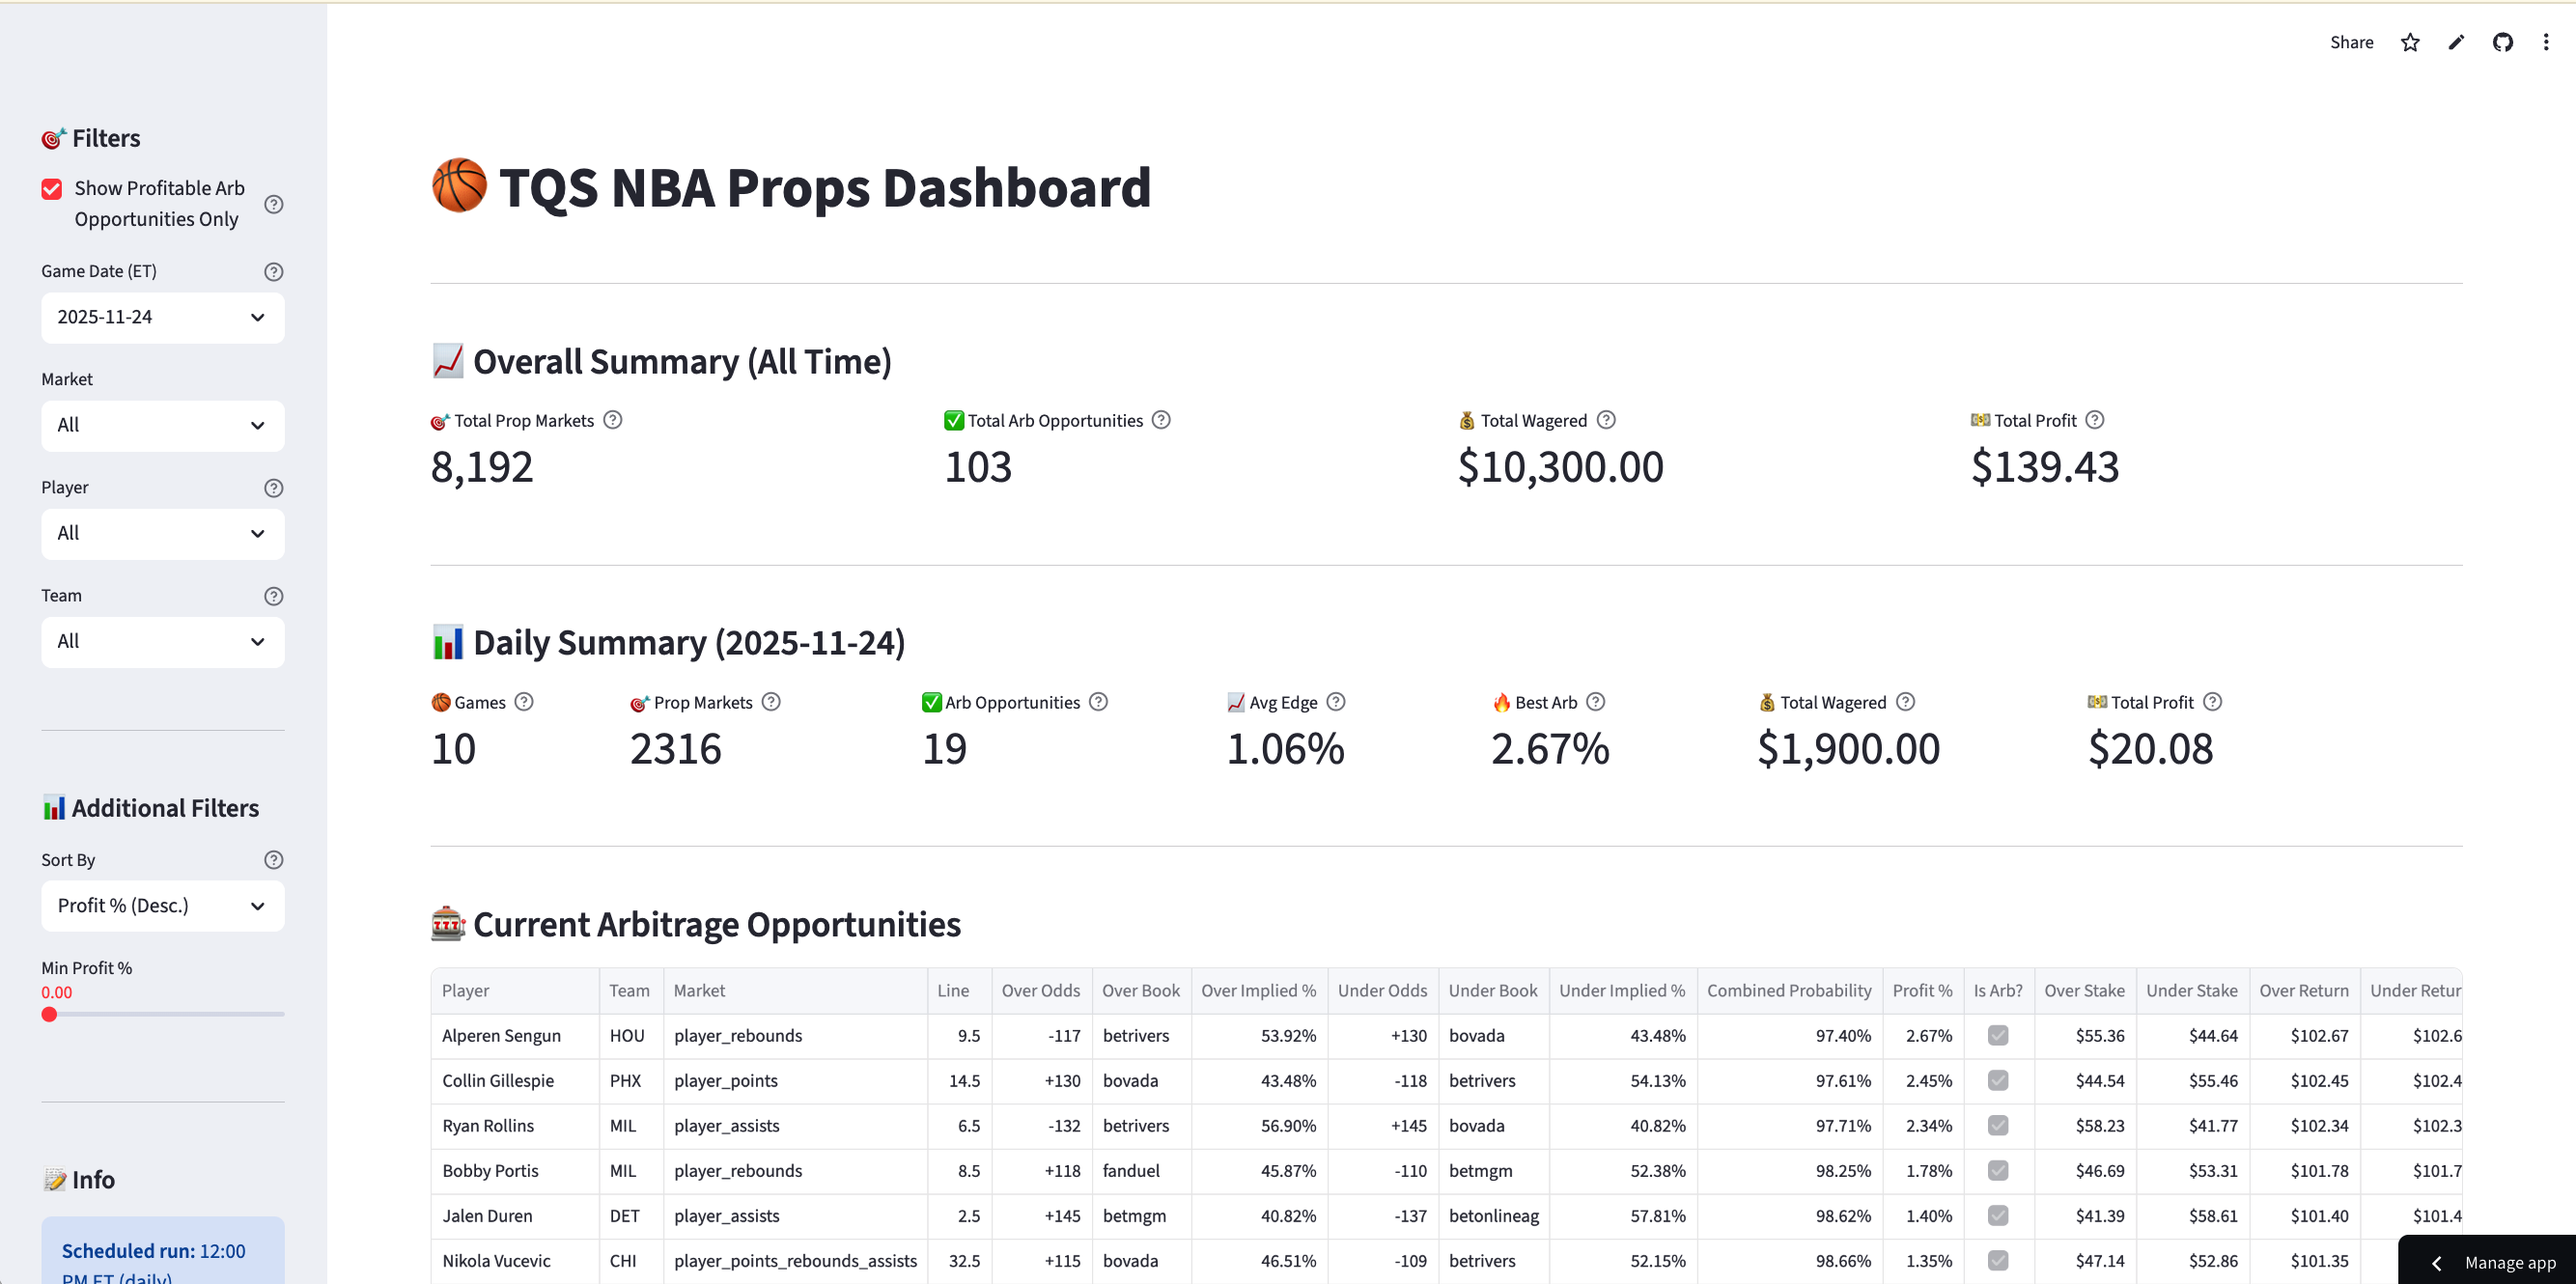
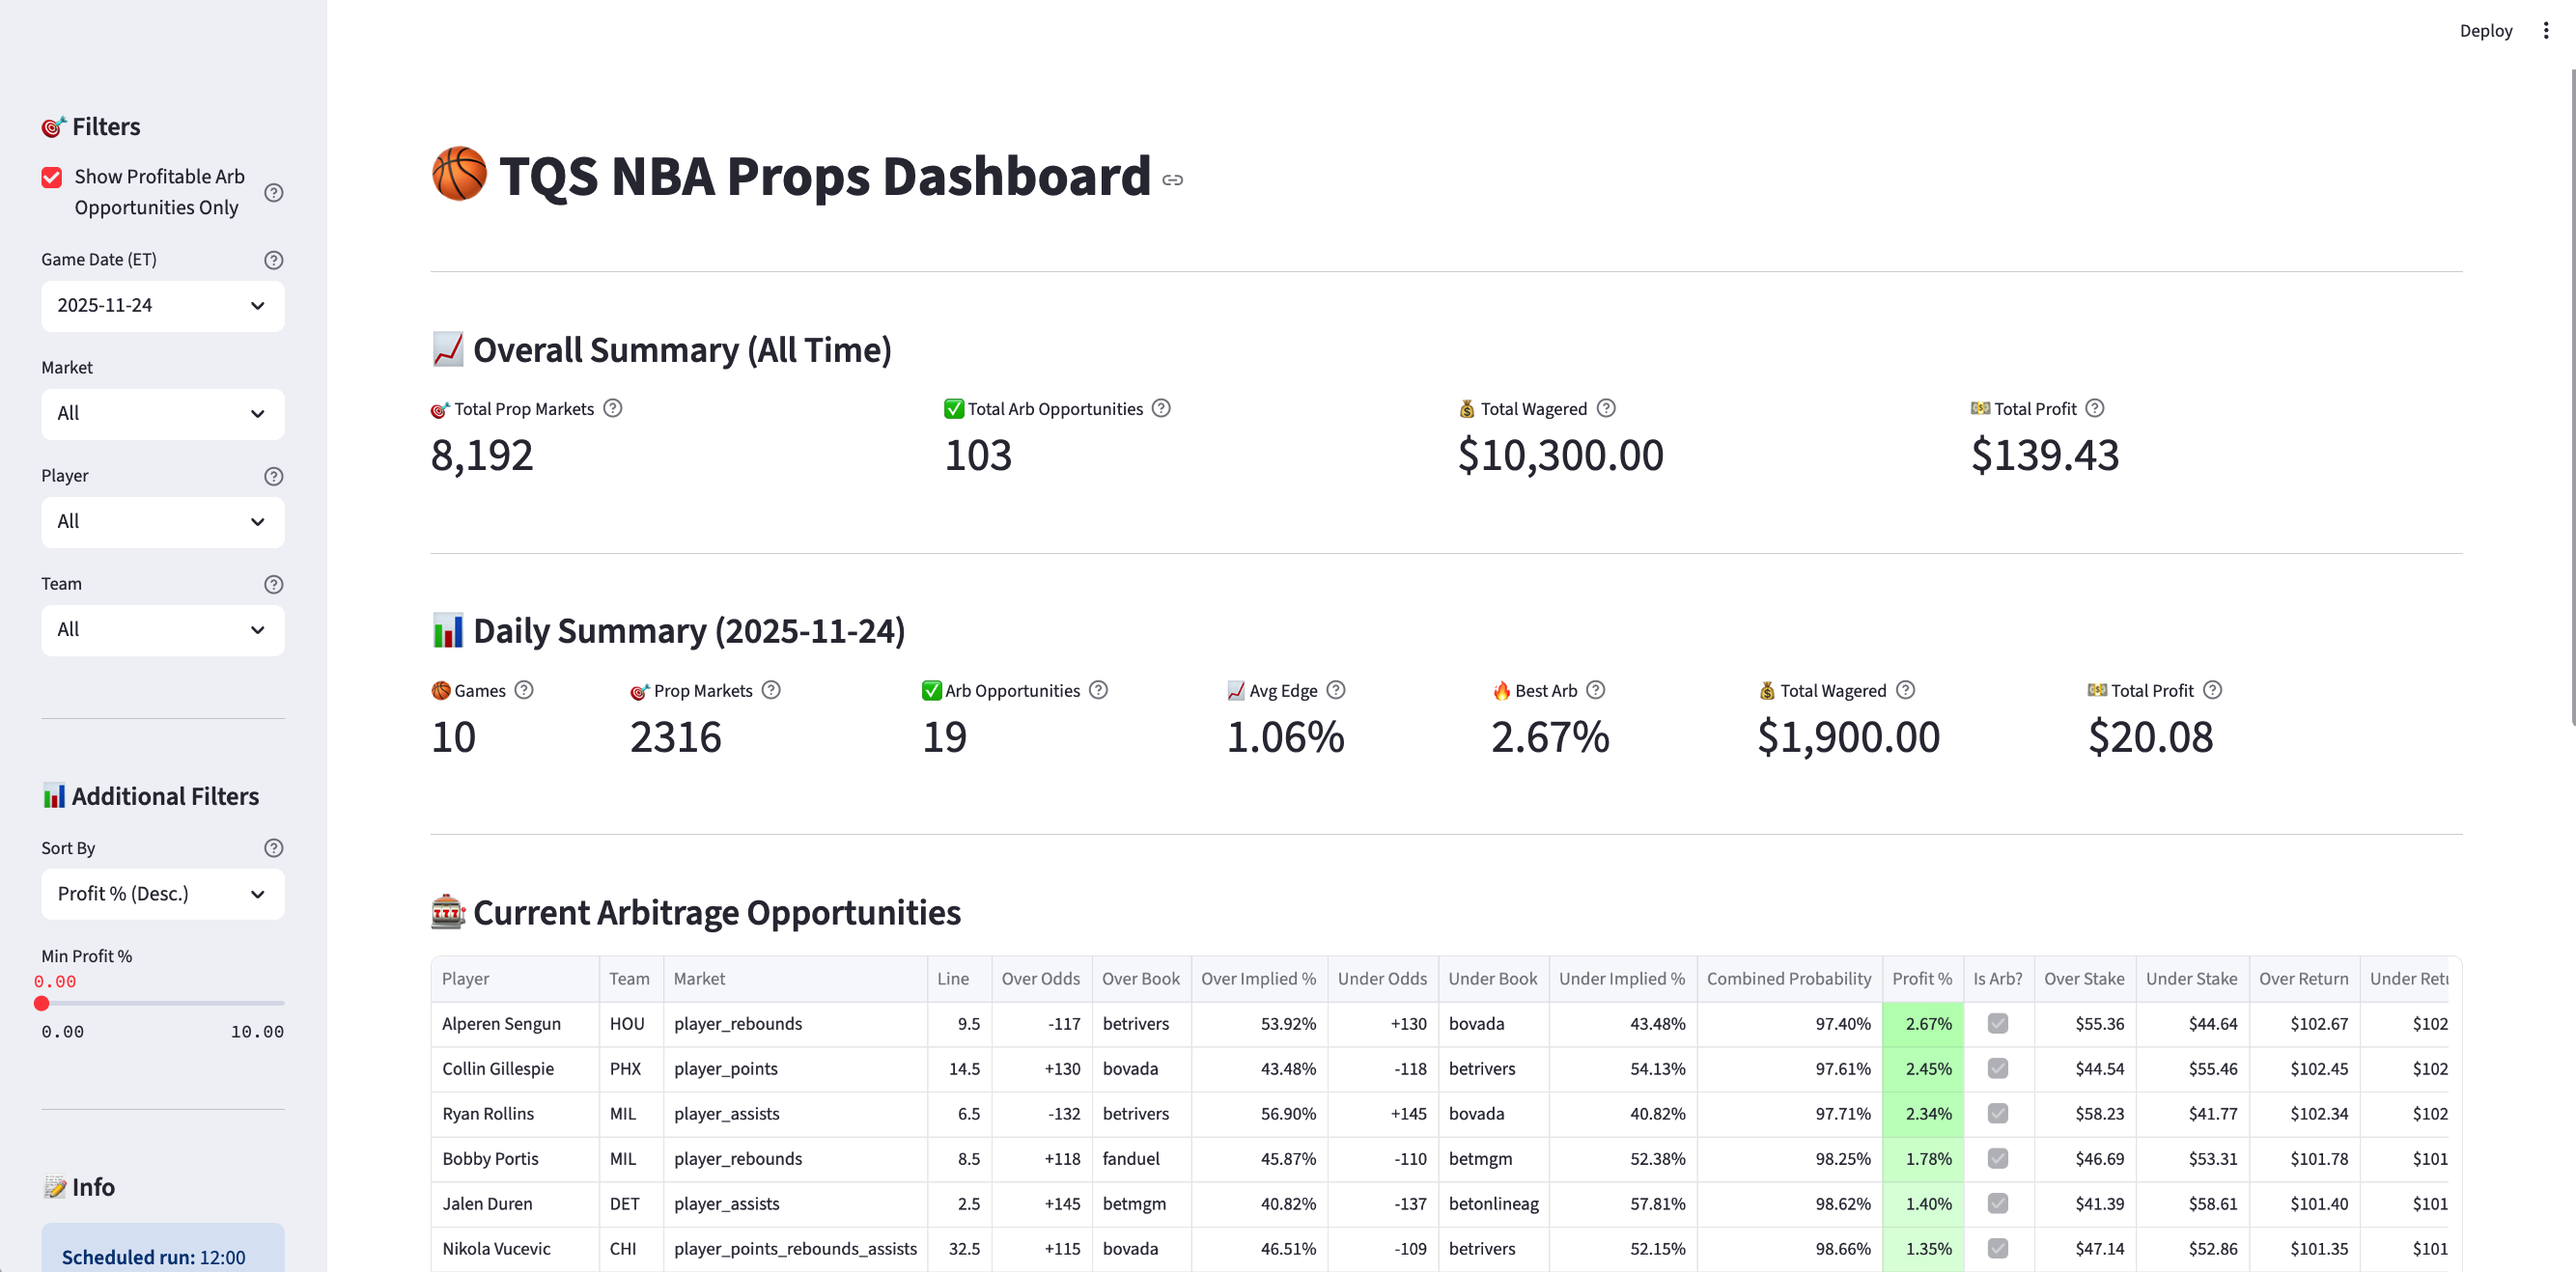
streamlit_app: add color gradient to profit columns

diff --git a/streamlit_app/app.py b/streamlit_app/app.py
@@ -698,9 +698,39 @@ def main():
         if sort_column in display_df.columns:
             display_df = display_df.sort_values(sort_column, ascending=sort_ascending)
         
+        # Apply color gradient to Profit % column
+        def color_profit_gradient(val):
+            """
+            Color code profit percentages:
+            - 10% or higher: very green
+            - 0%: white
+            - -10% or lower: very red
+            - Gradient in between
+            """
+            if pd.isna(val):
+                return ''
+            
+            # Clamp values between -10 and 10 for color mapping
+            clamped = max(-10, min(10, val))
+            
+            if clamped >= 0:
+                # Green gradient from white (0%) to green (10%)
+                intensity = int((clamped / 10) * 255)
+                return f'background-color: rgb({255 - intensity}, 255, {255 - intensity})'
+            else:
+                # Red gradient from white (0%) to red (-10%)
+                intensity = int((abs(clamped) / 10) * 255)
+                return f'background-color: rgb(255, {255 - intensity}, {255 - intensity})'
+        
+        # Style the dataframe
+        styled_df = display_df.style.applymap(
+            color_profit_gradient,
+            subset=['expected_profit_pct'] if 'expected_profit_pct' in display_df.columns else []
+        )
+        
         # Display with highlighting
         st.dataframe(
-            display_df,
+            styled_df,
             use_container_width=True,
             hide_index=True,
             column_config={
@@ -800,8 +830,32 @@ def main():
         column_order = ['date', 'prop_markets', 'arbs_found', 'total_wagered', 'total_profit', 'avg_profit', 'file']
         display_history = history_df[column_order].head(10)
         
+        # Apply color gradient to avg_profit column in history
+        def color_profit_gradient_history(val):
+            """Color code profit percentages with gradient."""
+            if pd.isna(val):
+                return ''
+            
+            # Clamp values between -10 and 10 for color mapping
+            clamped = max(-10, min(10, val))
+            
+            if clamped >= 0:
+                # Green gradient from white (0%) to green (10%)
+                intensity = int((clamped / 10) * 255)
+                return f'background-color: rgb({255 - intensity}, 255, {255 - intensity})'
+            else:
+                # Red gradient from white (0%) to red (-10%)
+                intensity = int((abs(clamped) / 10) * 255)
+                return f'background-color: rgb(255, {255 - intensity}, {255 - intensity})'
+        
+        # Style the history dataframe
+        styled_history = display_history.style.applymap(
+            color_profit_gradient_history,
+            subset=['avg_profit'] if 'avg_profit' in display_history.columns else []
+        )
+        
         st.dataframe(
-            display_history,
+            styled_history,
             use_container_width=True,
             hide_index=True,
             column_config={
